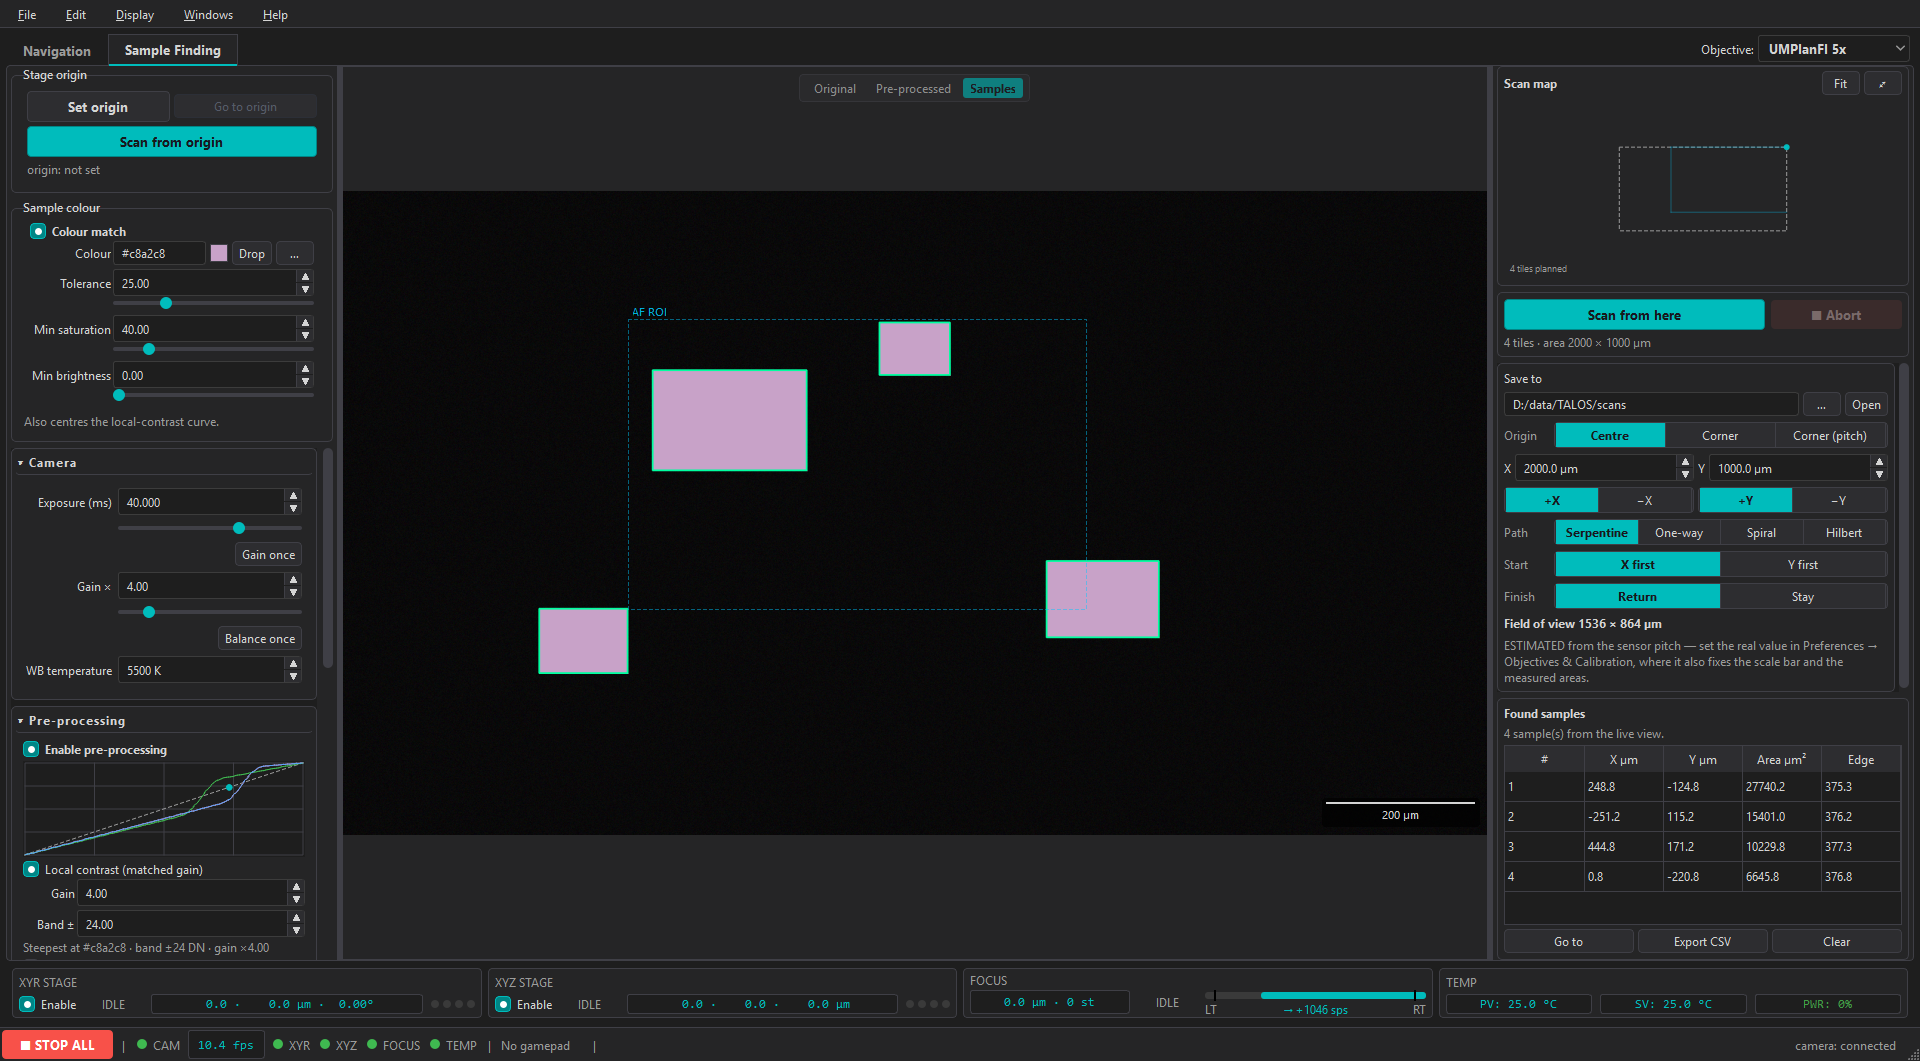
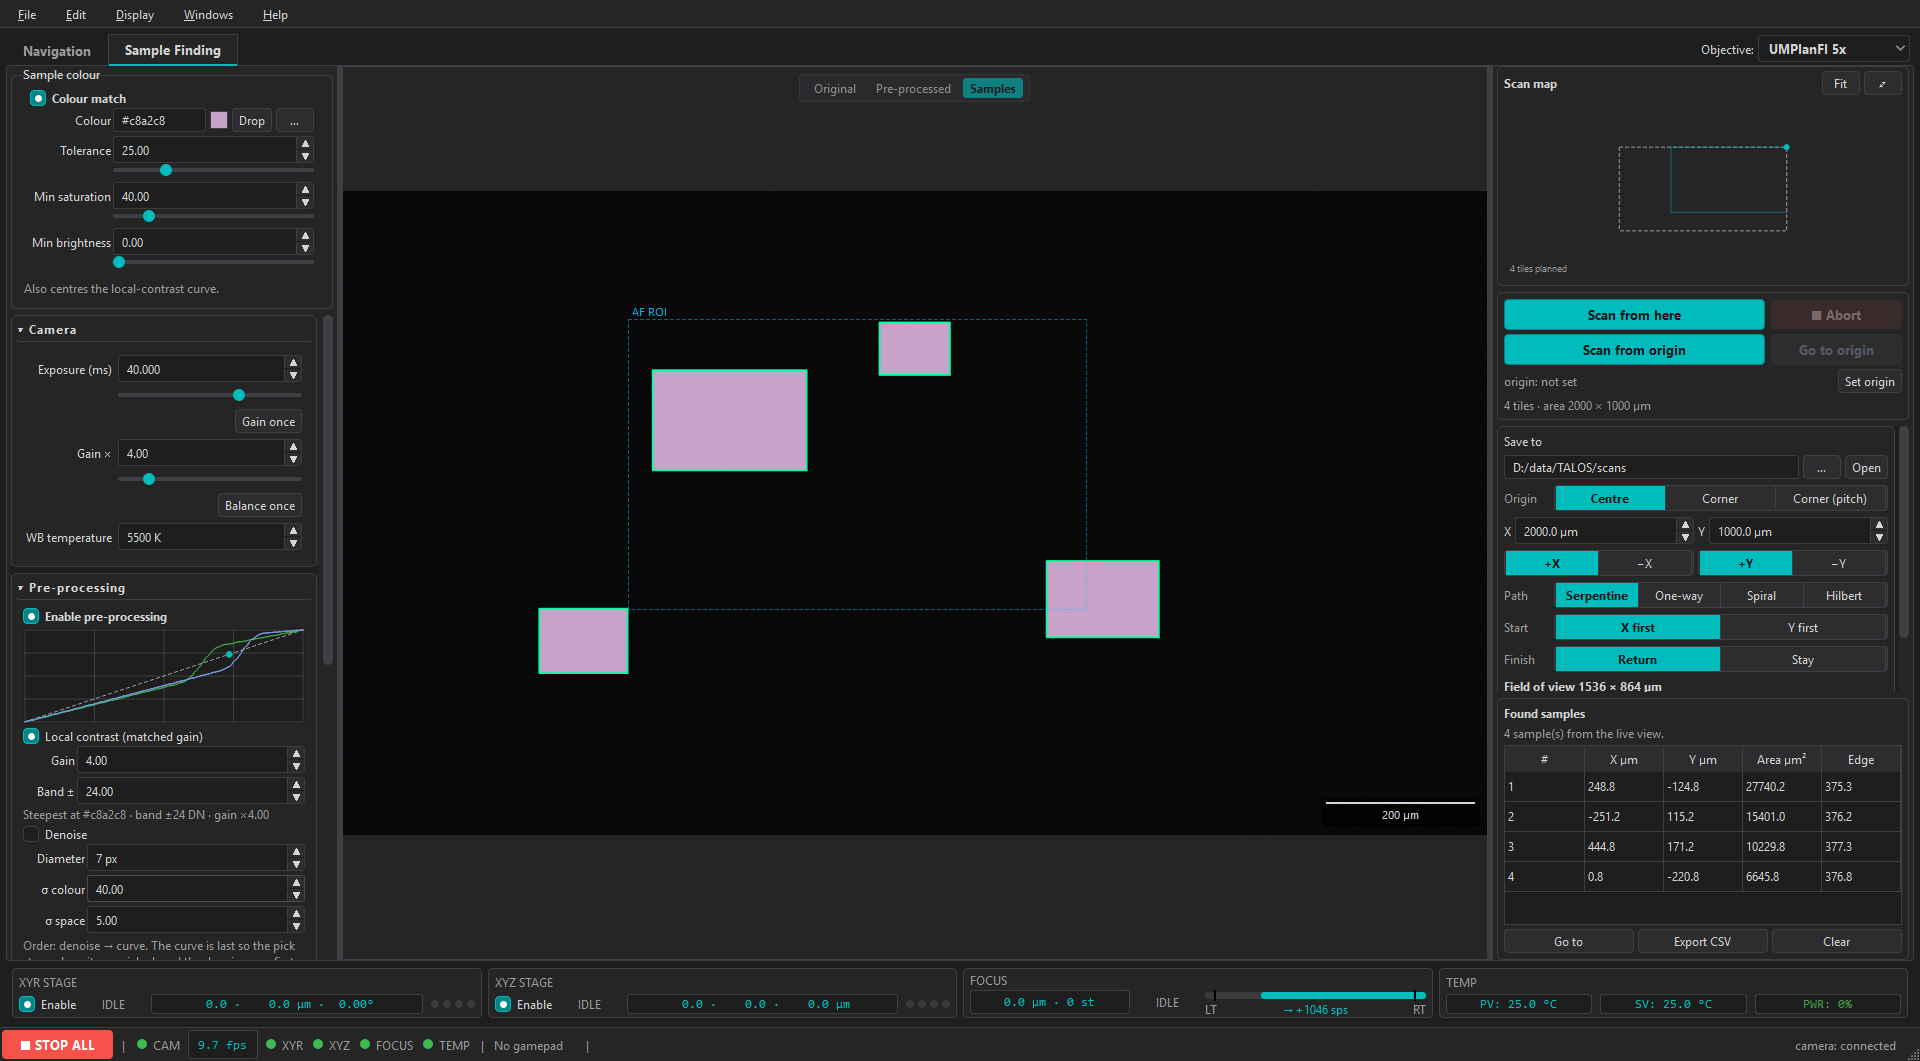
The origin row belongs in the run card, not in a card of its own
The user asked for the origin controls to be folded into the card that
already answers "where does a run start" — the right column's run card — and
for the buttons to be arranged so the result reads comfortably. My first cut
gave them their own card at the top of the left column, which was the wrong
shape twice over: it took the prime slot above the sample colour, and it
implied the origin is a separate subject from scanning rather than a scan
setting.

The card is now three rows:

    [ Scan from here      ][ ■ Abort ]
    [ Scan from origin    ][ Go to origin ]
    origin: 12.5, -3.0 µm          [ Set origin ]

The first two rows are the two ways to start the same run, with their
actions paired; the third is the readout with *Set origin* beside it,
because marking the spot is housekeeping rather than a motion — third in a
row of motion buttons it read as one.

*Set origin* stays live while a run owns the axes (it only reads the
position, and marking where a run started is worth having); *Go to origin*
and *Scan from origin* stand down with everything else, and both are
disabled until something has actually been marked.

`control_groups.OriginGroup` is deleted — it existed for one caller and its
contents are now rows in a card that was already there. The panel owns the
three buttons and a `refresh_origin` that follows `AppState`, so an origin
set on the Navigation tab enables them here; the workspace re-emits only the
[…]

Changed region(s): [[0.0, 0.0622, 0.1875, 0.902], [0.7812, 0.311, 1.0, 0.6532], [0.0938, 0.9642, 0.3125, 0.9953]]

diff --git a/talos/ui/widgets/scan_panel.py b/talos/ui/widgets/scan_panel.py
@@ -149,6 +149,9 @@ class ScanPanel(QWidget):
     #: the workspace hands it to the detection engine.
     sig_tile_captured = Signal(int, float, float, object)
     sig_log = Signal(str)
+    #: "Store here as the origin" — the workspace passes it on to the main
+    #: window, which owns the shared origin and its settings write.
+    sig_set_origin = Signal()
     #: Something that affects the plan changed (the workspace persists).
     sig_plan_changed = Signal()
 
@@ -198,6 +201,12 @@ class ScanPanel(QWidget):
         self._build_ui()
         self._load_settings()
         self._refresh_fov_label()
+        # The origin is shared with the Navigation tab: it can be set there
+        # and used here, so the readout follows the state rather than the
+        # buttons that happen to be on this panel.
+        self._state.sig_stage_origin_changed.connect(
+            lambda _p: self.refresh_origin())
+        self.refresh_origin()
 
     # ------------------------------------------------------------------
     # construction
@@ -286,6 +295,15 @@ class ScanPanel(QWidget):
         return card
 
     def _build_run_card(self) -> QWidget:
+        """Where a run starts, and where the origin it can start from lives.
+
+        The origin is here rather than in a card of its own because it is a
+        scan setting like the area is: it answers "where does the next run
+        begin", which is the question this row already asks twice (from the
+        stage, from the origin). *Set origin* sits with the readout, not with
+        the two actions that USE the origin — marking it is housekeeping, and
+        putting it third in a row of motion buttons made it look like one.
+        """
         card = QFrame()
         card.setObjectName("card")
         layout = QVBoxLayout(card)
@@ -308,6 +326,41 @@ class ScanPanel(QWidget):
         self.abort_btn.clicked.connect(lambda: self._on_abort("abort"))
         row.addWidget(self.abort_btn, 1)
         layout.addLayout(row)
+
+        row = QHBoxLayout()
+        row.setSpacing(6)
+        self.scan_origin_btn = QPushButton("Scan from origin")
+        self.scan_origin_btn.setObjectName("qa_primary")
+        self.scan_origin_btn.setToolTip(
+            "Run the same scan anchored at the origin instead of at the\n"
+            "stage. The first move goes to the first tile's centre — which\n"
+            "in the corner origin modes is inset half a field of view, not\n"
+            "the origin itself.")
+        self.scan_origin_btn.clicked.connect(self.scan_from_origin)
+        row.addWidget(self.scan_origin_btn, 2)
+        self.go_origin_btn = QPushButton("Go to origin")
+        self.go_origin_btn.setObjectName("qa")
+        self.go_origin_btn.setToolTip("Move the stage to the origin, at the "
+                                      "scan's speed")
+        self.go_origin_btn.clicked.connect(self.go_to_origin)
+        row.addWidget(self.go_origin_btn, 1)
+        layout.addLayout(row)
+
+        row = QHBoxLayout()
+        row.setSpacing(6)
+        self.origin_label = QLabel("origin: not set")
+        self.origin_label.setObjectName("dim")
+        self.origin_label.setWordWrap(True)
+        row.addWidget(self.origin_label, 1)
+        self.set_origin_btn = QPushButton("Set origin")
+        self.set_origin_btn.setObjectName("compact")
+        self.set_origin_btn.setToolTip(
+            "Store the current XYR position as the origin. The Navigation\n"
+            "tab sets and shows the same one.")
+        self.set_origin_btn.clicked.connect(self.sig_set_origin.emit)
+        row.addWidget(self.set_origin_btn)
+        layout.addLayout(row)
+
         self.progress = QProgressBar()
         self.progress.setVisible(False)
         layout.addWidget(self.progress)
@@ -874,6 +927,18 @@ class ScanPanel(QWidget):
             return
         self._go_to(origin.x_um, origin.y_um, "the origin")
 
+    def refresh_origin(self) -> None:
+        """The origin readout, and which of the origin actions can run."""
+        origin = getattr(self._state, "stage_origin", None)
+        if origin is None:
+            self.origin_label.setText("origin: not set")
+        else:
+            self.origin_label.setText(f"origin: {origin.x_um:.1f}, "
+                                      f"{origin.y_um:.1f} µm")
+        usable = origin is not None and self._job is None
+        self.go_origin_btn.setEnabled(usable)
+        self.scan_origin_btn.setEnabled(usable)
+
     def _start_scan(self, position: StagePosition) -> bool:
         """Begin a run anchored at ``position``. False when it was refused
         (the caller says which anchor it was for)."""
@@ -1192,10 +1257,15 @@ class ScanPanel(QWidget):
         self.abort_btn.setEnabled(busy)
         self.progress.setVisible(busy)
         self._go_to_btn.setEnabled(not busy and bool(self._candidates))
+        # Everything a run would fight over is disabled — except *Set
+        # origin*, which only reads the position and is worth having
+        # mid-run (marking the spot the run started from), and the two
+        # origin actions, whose enable state refresh_origin owns.
         for widget in (self.origin, self.x_dir, self.y_dir, self.path,
                        self.start_axis, self.return_home,
                        self.width, self.height, self._dir):
             widget.setEnabled(not busy)
+        self.refresh_origin()
         if not busy:
             self._refresh_fov_label()
 

diff --git a/tests/unit/test_main_window_smoke.py b/tests/unit/test_main_window_smoke.py
@@ -1545,28 +1545,38 @@ def test_the_colour_rows_have_sliders_and_the_gates_do_not(window):
     assert all(len(spec) == 2 for spec in plain._editors.values())
 
 
-# --- the stage origin card (shared with the Navigation tab) ---------------
+# --- the stage origin, in the run card (shared with the Navigation tab) ---
 
-def test_the_origin_card_follows_the_state(window):
-    """It starts with its two actions disabled: an origin is something the
-    operator MARKS, and a seeded (0, 0) would be the stage's machine origin
-    wearing that label."""
-    group = window._sample_finding.origin_group
-    assert not group.go_btn.isEnabled()
-    assert not group.scan_btn.isEnabled()
-    assert "not set" in group._label.text()
+def test_the_origin_row_follows_the_state(window):
+    """The two origin ACTIONS start disabled: an origin is something the
+    operator MARKS, and a seeded (0, 0) would be the machine origin wearing
+    that label. *Set origin* stays available — it is how you mark one."""
+    scan = window._sample_finding.scan_panel
+    assert not scan.go_origin_btn.isEnabled()
+    assert not scan.scan_origin_btn.isEnabled()
+    assert scan.set_origin_btn.isEnabled()
+    assert "not set" in scan.origin_label.text()
 
     from talos.models import StagePosition
 
     window._state.set_stage_origin(StagePosition(x_um=12.5, y_um=-3.0))
-    assert group.go_btn.isEnabled() and group.scan_btn.isEnabled()
-    assert "12.5" in group._label.text() and "-3.0" in group._label.text()
+    assert scan.go_origin_btn.isEnabled() and scan.scan_origin_btn.isEnabled()
+    assert "12.5" in scan.origin_label.text()
+    assert "-3.0" in scan.origin_label.text()
+
+    # a run owns the axes: the two actions stand down with everything else
+    scan._set_job("scan")
+    assert not scan.go_origin_btn.isEnabled()
+    assert not scan.scan_origin_btn.isEnabled()
+    assert scan.set_origin_btn.isEnabled(), "marking a spot is still useful"
+    scan._set_job(None)
+    assert scan.go_origin_btn.isEnabled()
 
 
-def test_the_origin_card_sets_the_shared_origin(window):
-    """ONE origin for both tabs: the card's Set button runs the same handler
-    as the Navigation quick action — so the value, the settings write and
-    the other tab's label cannot disagree.
+def test_the_run_card_sets_the_shared_origin(window):
+    """ONE origin for both tabs: the run card's Set button runs the same
+    handler as the Navigation quick action — so the value, the settings
+    write and the other tab's label cannot disagree.
 
     The handler also has to WRITE the settings: it used to raise NameError
     halfway through, which left the origin in memory, never saved, and no
@@ -1575,7 +1585,7 @@ def test_the_origin_card_sets_the_shared_origin(window):
     window._manager.last_position["zolix"] = {
         "x_um": 111.0, "y_um": -222.0, "r_deg": 0.0,
         "x_pulses": 1, "y_pulses": 2, "r_pulses": 0}
-    window._sample_finding.origin_group.set_btn.click()
+    window._sample_finding.scan_panel.set_origin_btn.click()
     assert window._state.stage_origin.x_um == pytest.approx(111.0)
     assert window._settings.section("origin")["xyr"]["x_um"] \
         == pytest.approx(111.0)
@@ -1585,7 +1595,7 @@ def test_the_origin_card_sets_the_shared_origin(window):
     # with no position to store, it says so instead of storing (0, 0)
     window._state._stage_origin = None
     window._manager.last_position.clear()
-    window._sample_finding.origin_group.set_btn.click()
+    window._sample_finding.scan_panel.set_origin_btn.click()
     assert window._state.stage_origin is None
 
 

diff --git a/talos/ui/widgets/control_groups.py b/talos/ui/widgets/control_groups.py
@@ -116,76 +116,6 @@ class QuickActionsGroup(QGroupBox):
             " · ".join(parts) if parts else "origins: not set")
 
 
-class OriginGroup(QGroupBox):
-    """The software stage origin, and the two things worth doing with it.
-
-    The same origin the Navigation tab sets — one value in ``AppState``,
-    one copy in the settings — so a place marked on one tab is the place
-    the other tab means. It lives in the left column of Sample Finding
-    because that is where this tab's quick access already is, and because
-    "scan from the origin" is the whole reason the origin exists.
-
-    The widget owns no behaviour beyond the label: the buttons emit, and
-    the panel and the main window decide what each one means.
-    """
-
-    sig_set_origin = Signal()
-    sig_go_to_origin = Signal()
-    sig_scan_from_origin = Signal()
-
-    def __init__(self, state, parent: QWidget | None = None):
-        super().__init__("Stage origin", parent)
-        self._state = state
-        layout = QVBoxLayout(self)
-        layout.setSpacing(4)
-
-        row = QHBoxLayout()
-        row.setSpacing(4)
-        self.set_btn = QPushButton("Set origin")
-        self.set_btn.setObjectName("qa")
-        self.set_btn.setToolTip(
-            "Store the current XYR position as the software origin. The\n"
-            "Navigation tab sets and shows the same one.")
-        self.set_btn.clicked.connect(self.sig_set_origin.emit)
-        row.addWidget(self.set_btn)
-        self.go_btn = QPushButton("Go to origin")
-        self.go_btn.setObjectName("compact")
-        self.go_btn.setToolTip("Move the stage to the stored origin, at the "
-                               "scan's speed")
-        self.go_btn.clicked.connect(self.sig_go_to_origin.emit)
-        row.addWidget(self.go_btn)
-        layout.addLayout(row)
-
-        self.scan_btn = QPushButton("Scan from origin")
-        self.scan_btn.setObjectName("qa_primary")
-        self.scan_btn.setToolTip(
-            "Run the scan this panel is set up for, anchored at the origin\n"
-            "instead of at the stage. The first move goes to the first\n"
-            "tile's centre — which in the corner origin modes is inset half\n"
-            "a field of view, not the origin itself.")
-        self.scan_btn.clicked.connect(self.sig_scan_from_origin.emit)
-        layout.addWidget(self.scan_btn)
-
-        self._label = QLabel("origin: not set")
-        self._label.setObjectName("dim")
-        self._label.setWordWrap(True)
-        layout.addWidget(self._label)
-        if state is not None:
-            state.sig_stage_origin_changed.connect(
-                lambda _p: self.refresh())
-        self.refresh()
-
-    def refresh(self) -> None:
-        origin = getattr(self._state, "stage_origin", None)
-        if origin is None:
-            self._label.setText("origin: not set")
-        else:
-            self._label.setText(f"origin: {origin.x_um:.1f}, "
-                                f"{origin.y_um:.1f} µm")
-        self.go_btn.setEnabled(origin is not None)
-        self.scan_btn.setEnabled(origin is not None)
-
-
 class CaptureGroup(QGroupBox):
     """Capture settings: save directory, filename pattern, format and
     capture resolution (the live view stays 1080p either way)."""

diff --git a/talos/ui/workspaces/sample_finding.py b/talos/ui/workspaces/sample_finding.py
@@ -45,7 +45,7 @@ from PySide6.QtWidgets import (
 from talos.cv.identify import IdentifyConfig, sample_hex
 from talos.ui.detect_engine import DetectionEngine
 from talos.ui.widgets.collapsible import CollapsibleGroup
-from talos.ui.widgets.control_groups import CameraGroup, OriginGroup
+from talos.ui.widgets.control_groups import CameraGroup
 from talos.ui.widgets.hardware_strip import parse_focus, parse_zolix
 from talos.ui.widgets.identify_panel import (ColourGroup, IdentifyGroup,
                                              PreprocessGroup)
@@ -131,15 +131,6 @@ class SampleFindingWorkspace(QWidget):
         column.setContentsMargins(4, 0, 4, 0)
         column.setSpacing(6)
 
-        # The origin card sits ABOVE the colour: it is three buttons and a
-        # line of text, and "scan from the origin" is the entry point to a
-        # session at the bench — mark the spot, then run.
-        self.origin_group = OriginGroup(self._state)
-        self.origin_group.sig_set_origin.connect(self.sig_set_stage_origin)
-        self.origin_group.sig_go_to_origin.connect(self.go_to_origin)
-        self.origin_group.sig_scan_from_origin.connect(self.scan_from_origin)
-        column.addWidget(self.origin_group)
-
         # Quick access, pinned: the one colour that drives two things.
         self.colour_group = ColourGroup(settings)
         self.colour_group.sig_changed.connect(self._on_colour_changed)
@@ -210,6 +201,9 @@ class SampleFindingWorkspace(QWidget):
         self.scan_panel.sig_tile_captured.connect(self._on_tile_captured)
         self.scan_panel.sig_log.connect(self._log)
         self.scan_panel.sig_plan_changed.connect(self.refresh_settings)
+        # The origin card is the scan's own run card, and the origin itself
+        # belongs to the app (the Navigation tab sets the same one).
+        self.scan_panel.sig_set_origin.connect(self.sig_set_stage_origin)
         self.scan_panel.pending_tiles_fn = lambda: self._engine.pending_tiles
         self.scan_panel.set_flip(self.camera_flip())
         column.addWidget(self.scan_panel, 1)
@@ -451,13 +445,16 @@ class SampleFindingWorkspace(QWidget):
         self._note_motion(key, payload)
 
     # ------------------------------------------------------------------
-    # the stage origin (shared with the Navigation tab)
+    # the stage origin (shared with the Navigation tab; the buttons live in
+    # the scan panel's run card, and its sig_set_origin is re-emitted above)
     # ------------------------------------------------------------------
 
     def go_to_origin(self) -> None:
+        """Move the stage to the origin (the run card's own button)."""
         self.scan_panel.go_to_origin()
 
     def scan_from_origin(self) -> None:
+        """Scan anchored at the origin (the run card's own button)."""
         self.scan_panel.scan_from_origin()
 
     # ------------------------------------------------------------------

diff --git a/README.md b/README.md
@@ -158,16 +158,11 @@ rotates the image and never touches an axis.
 - **Sample Finding** — three columns: the camera and the computer vision on the
   left, the live view in the middle, and the scan on the right.
 
-  **Left.** The **stage origin** card is pinned at the top: mark a spot, go
-  back to it, or start a scan from it. The same origin the Navigation tab
-  sets, so a corner marked on one tab is the corner the other one means — and
-  *scan from origin* anchors the area there and moves straight to the first
-  tile's centre, not to the marked point. Below it sits the sample colour —
-  the one control touched constantly, because it is both the mask's target and
-  the centre of the local-contrast curve — then foldable groups for the
-  camera's manual profile (identification needs a stable image, not an
-  auto-adjusted one), the **pre-processing** chain and the **identification**
-  chain.
+  **Left.** The sample colour is pinned at the top — the one control touched
+  constantly, because it is both the mask's target and the centre of the
+  local-contrast curve. Below it, foldable groups for the camera's manual
+  profile (identification needs a stable image, not an auto-adjusted one), the
+  **pre-processing** chain and the **identification** chain.
 
   **Centre.** The live view, with a floating **Original / Pre-processed /
   Samples** switch. *Pre-processed* is what the filters make of the frame — and
@@ -181,6 +176,15 @@ rotates the image and never touches an axis.
   microscope (the only part that scrolls), and — pinned below them, always
   visible — the table of samples that were found, with *go to* to bring one
   under the crosshair.
+
+  The **run card** is where a run starts, and it starts one of two ways: from
+  where the stage is standing, or from the **origin**. The origin is the same
+  one the Navigation tab marks — one value, two tabs — and the card carries
+  the three controls for it: *Set origin* (mark where the stage is now), *Go
+  to origin*, and *Scan from origin*. That last one anchors the AREA at the
+  origin and moves straight to the first tile's centre: in the corner origin
+  modes that centre is inset half a field of view, so the marked corner lands
+  where you meant it to, on the corner of the first FRAME.
 
 **Pre-processing** is what makes a thin sample visible: an edge-preserving
 denoise for the noise a gain would amplify, and a **local-contrast curve** that
